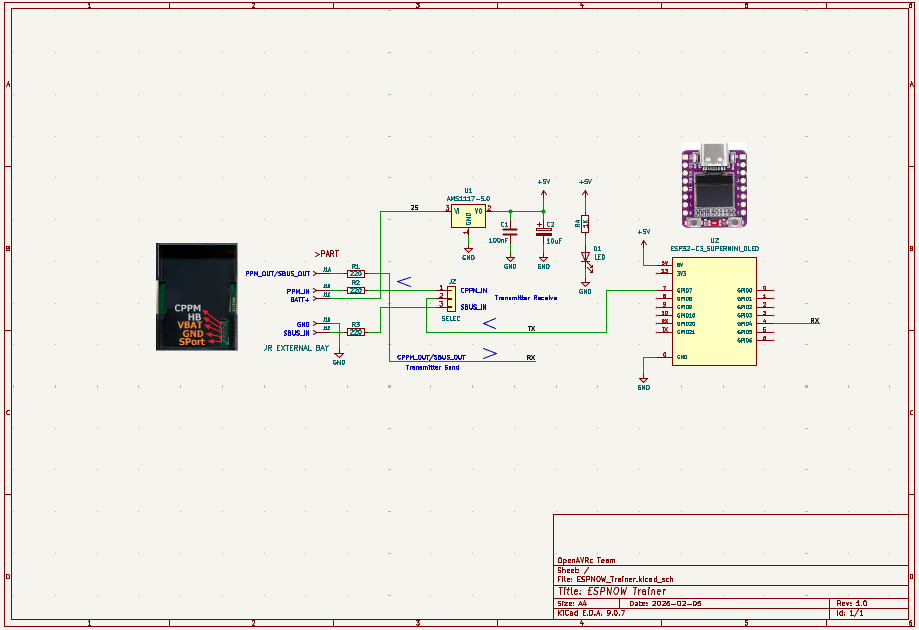
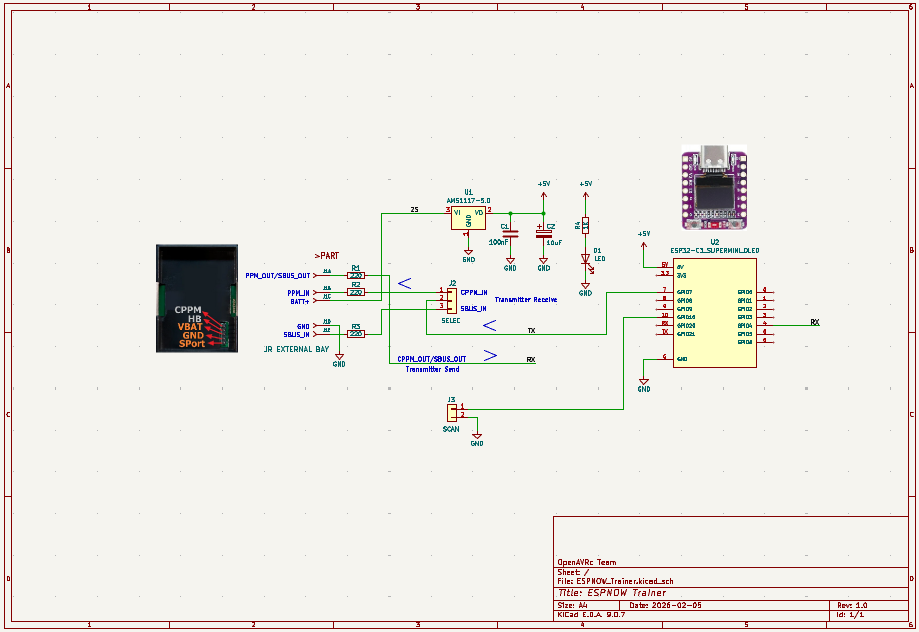
Add external bouton scan for master only

diff --git a/Bluetooth_Replacement/Hardware/README.md b/Bluetooth_Replacement/Hardware/README.md
@@ -31,4 +31,33 @@ It accept CPPM and SBUS ouput or CPPM and SBUS input .
 ![](https://github.com/Ingwie/OpenAVRc_Hw/blob/V3/Bluetooth_Replacement/Hardware/ESPNOW_Trainer_Bot.jpg)  
 
 ## How to use
+These commands are intended for diagnostics and configuration.
+They do not interfere with OpenAVRc operation.
 
+```
+[USB] Commands:
+  h              -> help
+  m              -> force ROLE=MASTER (1)
+  s              -> force ROLE=SLAVE  (0)
+  ssid <name>    -> set/save STA ssid
+  pass <pass>    -> set/save STA password
+  creds          -> show saved STA creds (ssid + pass length)
+  moutput  <x>   -> set/save MASTER output: 0=PPM 1=SBUS 2=HC05 3=PPM2PPM (reboot)
+  sinput   <x>   -> set/save SLAVE   input: 0=PPM 1=SBUS 2=HC05 3=PPM2PPM (reboot)
+  ppmpulse <x>   -> set CPPM pulse mode (0=PPM POS, 1=PPM NEG)
+  scan [ms]      -> MASTER: ESPNOW scan (like AT+INQ) and list responders
+  scan link      -> MASTER: ESPNOW scan and link to SLAVE
+  i              -> info
+  d              -> toggle BT debug (sniff UART BT, decode tf frames, show DATA-RX)
+  dtf            -> toggle BT count tf stream from SLAVE
+  sg             -> toggle Slave  TF generator (simulate student data)
+  w              -> show FT state
+  w ap           -> start FT in AP mode (OpenAVRc-FT / openavrc123)
+  w sta          -> start FT in STA mode using saved creds
+  w sta <s> <p>  -> start FT in STA mode + save creds
+  w off          -> stop FT and return normal
+  at?            -> at Commands help
+  diag           -> version and more
+  diag tf        -> diagnostic tf stream
+  diag link      -> diagnostic link
+```
